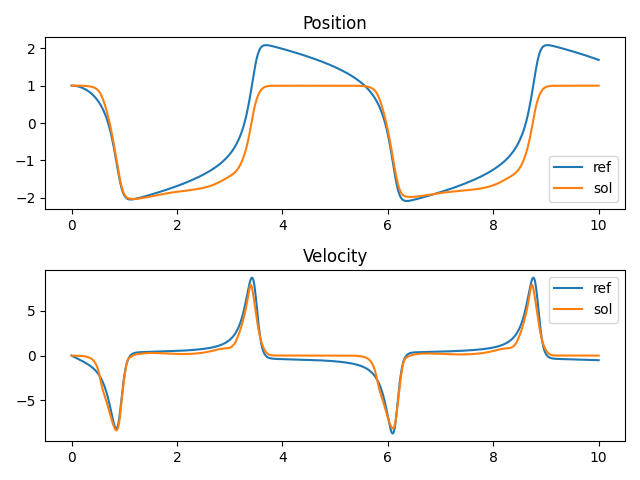
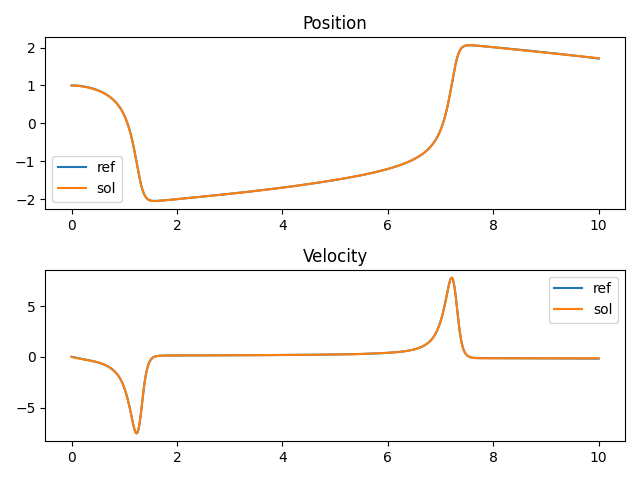
reference is only calculated once, added some timing for comparison with FNA Code.

diff --git a/01_Informed_Simulators/03_adjoint_scipy_minimize/adjoint_master_file_NN.py b/01_Informed_Simulators/03_adjoint_scipy_minimize/adjoint_master_file_NN.py
@@ -8,6 +8,7 @@ from flax.core import freeze, unfreeze
 from typing import Sequence
 import os
 import sys
+import time
 
 # To use the plot_results file we need to add the uppermost folder to the PYTHONPATH
 # Only Works if file gets called from 00_Code
@@ -34,26 +35,26 @@ from jax.config import config
 config.update("jax_enable_x64", True)
 
 
-@jit
-def ode_stim(z, t, ode_parameters):
-    '''Calculates the right hand side of the original ODE.'''
-    kappa = ode_parameters[0]
-    mu = ode_parameters[1]
-    mass = ode_parameters[2]
-    derivative = jnp.array([z[1],
-                           -kappa*z[0]/mass + (mu*(1-z[0]**2)*z[1])/mass + 1.2*jnp.cos(0.628*t)])
-    return derivative
+# @jit
+# def ode(z, t, ode_parameters):
+#     '''Calculates the right hand side of the original ODE.'''
+#     kappa = ode_parameters[0]
+#     mu = ode_parameters[1]
+#     mass = ode_parameters[2]
+#     derivative = jnp.array([z[1],
+#                            -kappa*z[0]/mass + (mu*(1-z[0]**2)*z[1])/mass + 1.2*jnp.cos(0.628*t)])
+#     return derivative
 
-@jit
-def hybrid_ode_stim(z, t, ode_parameters, nn_parameters):
-    '''Calculates the right hand side of the hybrid ODE, where
-    the damping term is replaced by the neural network'''
-    kappa = ode_parameters[0]
-    mu = ode_parameters[1]
-    mass = ode_parameters[2]
-    derivative = jnp.array([jnp.array((z[1],)),
-                            jnp.array((-kappa*z[0]/mass,)) + model.apply(nn_parameters, z) + jnp.array(1.2*jnp.cos(0.628*t))] ).flatten()
-    return derivative
+# @jit
+# def hybrid_ode(z, t, ode_parameters, nn_parameters):
+#     '''Calculates the right hand side of the hybrid ODE, where
+#     the damping term is replaced by the neural network'''
+#     kappa = ode_parameters[0]
+#     mu = ode_parameters[1]
+#     mass = ode_parameters[2]
+#     derivative = jnp.array([jnp.array((z[1],)),
+#                             jnp.array((-kappa*z[0]/mass,)) + model.apply(nn_parameters, z) + jnp.array(1.2*jnp.cos(0.628*t))] ).flatten()
+#     return derivative
 
 @jit
 def ode(z, t, ode_parameters):
@@ -109,9 +110,15 @@ def hybrid_euler(z0, t, ode_parameters, nn_parameters):
     '''Applies forward Euler to the hybrid ODE and returns the trajectory'''
     z = np.zeros((t.shape[0], 2))
     z[0] = z0
+    times = []
     for i in range(len(t)-1):
         dt = t[i+1] - t[i]
+        start = time.time()
         z[i+1] = z[i] + dt * hybrid_ode(z[i], t[i], ode_parameters, nn_parameters)
+        end = time.time()
+        times.append(end-start)
+    mean_time = np.asarray(times).mean()
+    # print(f'Mean calculation time for derivatives and jacobians: {mean_time}')
     return z
 
 def adj_euler(a0, z, z_ref, t, ode_parameters, nn_parameters):
@@ -157,7 +164,7 @@ def function_wrapper(nn_parameters, args):
     # Unpack the arguments
     t = args[0]
     z0 = args[1]
-    ode_parameters_ref = args[2]
+    z_ref = args[2]
     ode_parameters = args[3]
     unravel_pytree = args[4]
     epoch = args[5]
@@ -166,7 +173,6 @@ def function_wrapper(nn_parameters, args):
     nn_parameters = unravel_pytree(nn_parameters)
 
     # Calculate the reference solution (could do this out of the the function wrapper)
-    z_ref = f_euler(z0, t, ode_parameters_ref)
     # calculate the prediction of the hybrid model and calculate the loss w.r.t. the reference
     z = hybrid_euler(z0, t, ode_parameters, nn_parameters)
     loss = J(z, z_ref, ode_parameters, nn_parameters)
@@ -178,35 +184,35 @@ def function_wrapper(nn_parameters, args):
     adjoint = np.flip(adjoint, axis=0)
 
     # Calculate the gradient of the hybrid ode with respect to the nn_parameters
-    df_dtheta_at_t = vectorized_df_dtheta_function(z, t, ode_parameters, nn_parameters)
+    df_dtheta_trajectory = vectorized_df_dtheta_function(z, t, ode_parameters, nn_parameters)
 
     # For loop probably not the fastest; Pytree probably better
     # Matrix multiplication of adjoint variable with jacobian
-    df_dtheta_at_t = unfreeze(df_dtheta_at_t)
+    df_dtheta_trajectory = unfreeze(df_dtheta_trajectory)
 
-    for layer in df_dtheta_at_t['params']:
+    for layer in df_dtheta_trajectory['params']:
         # Sum the matmul result over the entire time_span to get the final gradients
-        df_dtheta_at_t['params'][layer]['bias'] = np.einsum("iN,iNj->j", adjoint, df_dtheta_at_t['params'][layer]['bias'])
-        df_dtheta_at_t['params'][layer]['kernel'] = np.einsum("iN,iNjk->jk", adjoint, df_dtheta_at_t['params'][layer]['kernel'])
+        df_dtheta_trajectory['params'][layer]['bias'] = np.einsum("iN,iNj->j", adjoint, df_dtheta_trajectory['params'][layer]['bias'])
+        df_dtheta_trajectory['params'][layer]['kernel'] = np.einsum("iN,iNjk->jk", adjoint, df_dtheta_trajectory['params'][layer]['kernel'])
 
-    df_dtheta = df_dtheta_at_t
+    df_dtheta = df_dtheta_trajectory
 
     dJ_dtheta = df_dtheta
 
     flat_dJ_dtheta, _ = flatten_util.ravel_pytree(dJ_dtheta)
 
-    print(f'Epoch: {epoch}, Loss: {loss:.5f}')
+    print(f'Epoch: {epoch}, Loss: {loss:.5f}, first gradient value: {flat_dJ_dtheta[0]}')
     epoch += 1
     args[5] = epoch
     return loss, flat_dJ_dtheta
 
-t = np.linspace(0.0, 10.0, 601)
+t = np.linspace(0.0, 10.0, 1001)
 z0 = np.array([1.0, 0.0])
 ode_parameters_ref = np.asarray([1.0, 5.0, 1.0])
 ode_parameters = np.asarray([1.0, 1.0, 1.0])
 
 
-layers = [5, 1]
+layers = [5, 5, 1]
 #NN Parameters
 key1, key2 = random.split(random.PRNGKey(0), 2)
 # Input size is guess from input during init
@@ -216,8 +222,10 @@ nn_parameters = model.init(key2, np.zeros((1, 2)))
 flat_nn_parameters, unravel_pytree = flatten_util.ravel_pytree(nn_parameters)
 epoch = 0
 
+z_ref = f_euler(z0, t, ode_parameters_ref)
+
 # Put all arguments the optimization needs into one array for the minimize function
-args = [t, z0, ode_parameters_ref, ode_parameters, unravel_pytree, epoch]
+args = [t, z0, z_ref, ode_parameters, unravel_pytree, epoch]
 
 # Possible methods include: BFGS, SLSQP, L-BFGS-B, CG
 method = 'BFGS'
@@ -228,7 +236,6 @@ nn_parameters = unravel_pytree(flat_nn_parameters)
 
 print(res)
 
-z_ref = f_euler(z0, t, ode_parameters_ref)
 z = hybrid_euler(z0, t, ode_parameters_ref, nn_parameters)
 
 fig = plt.figure()
